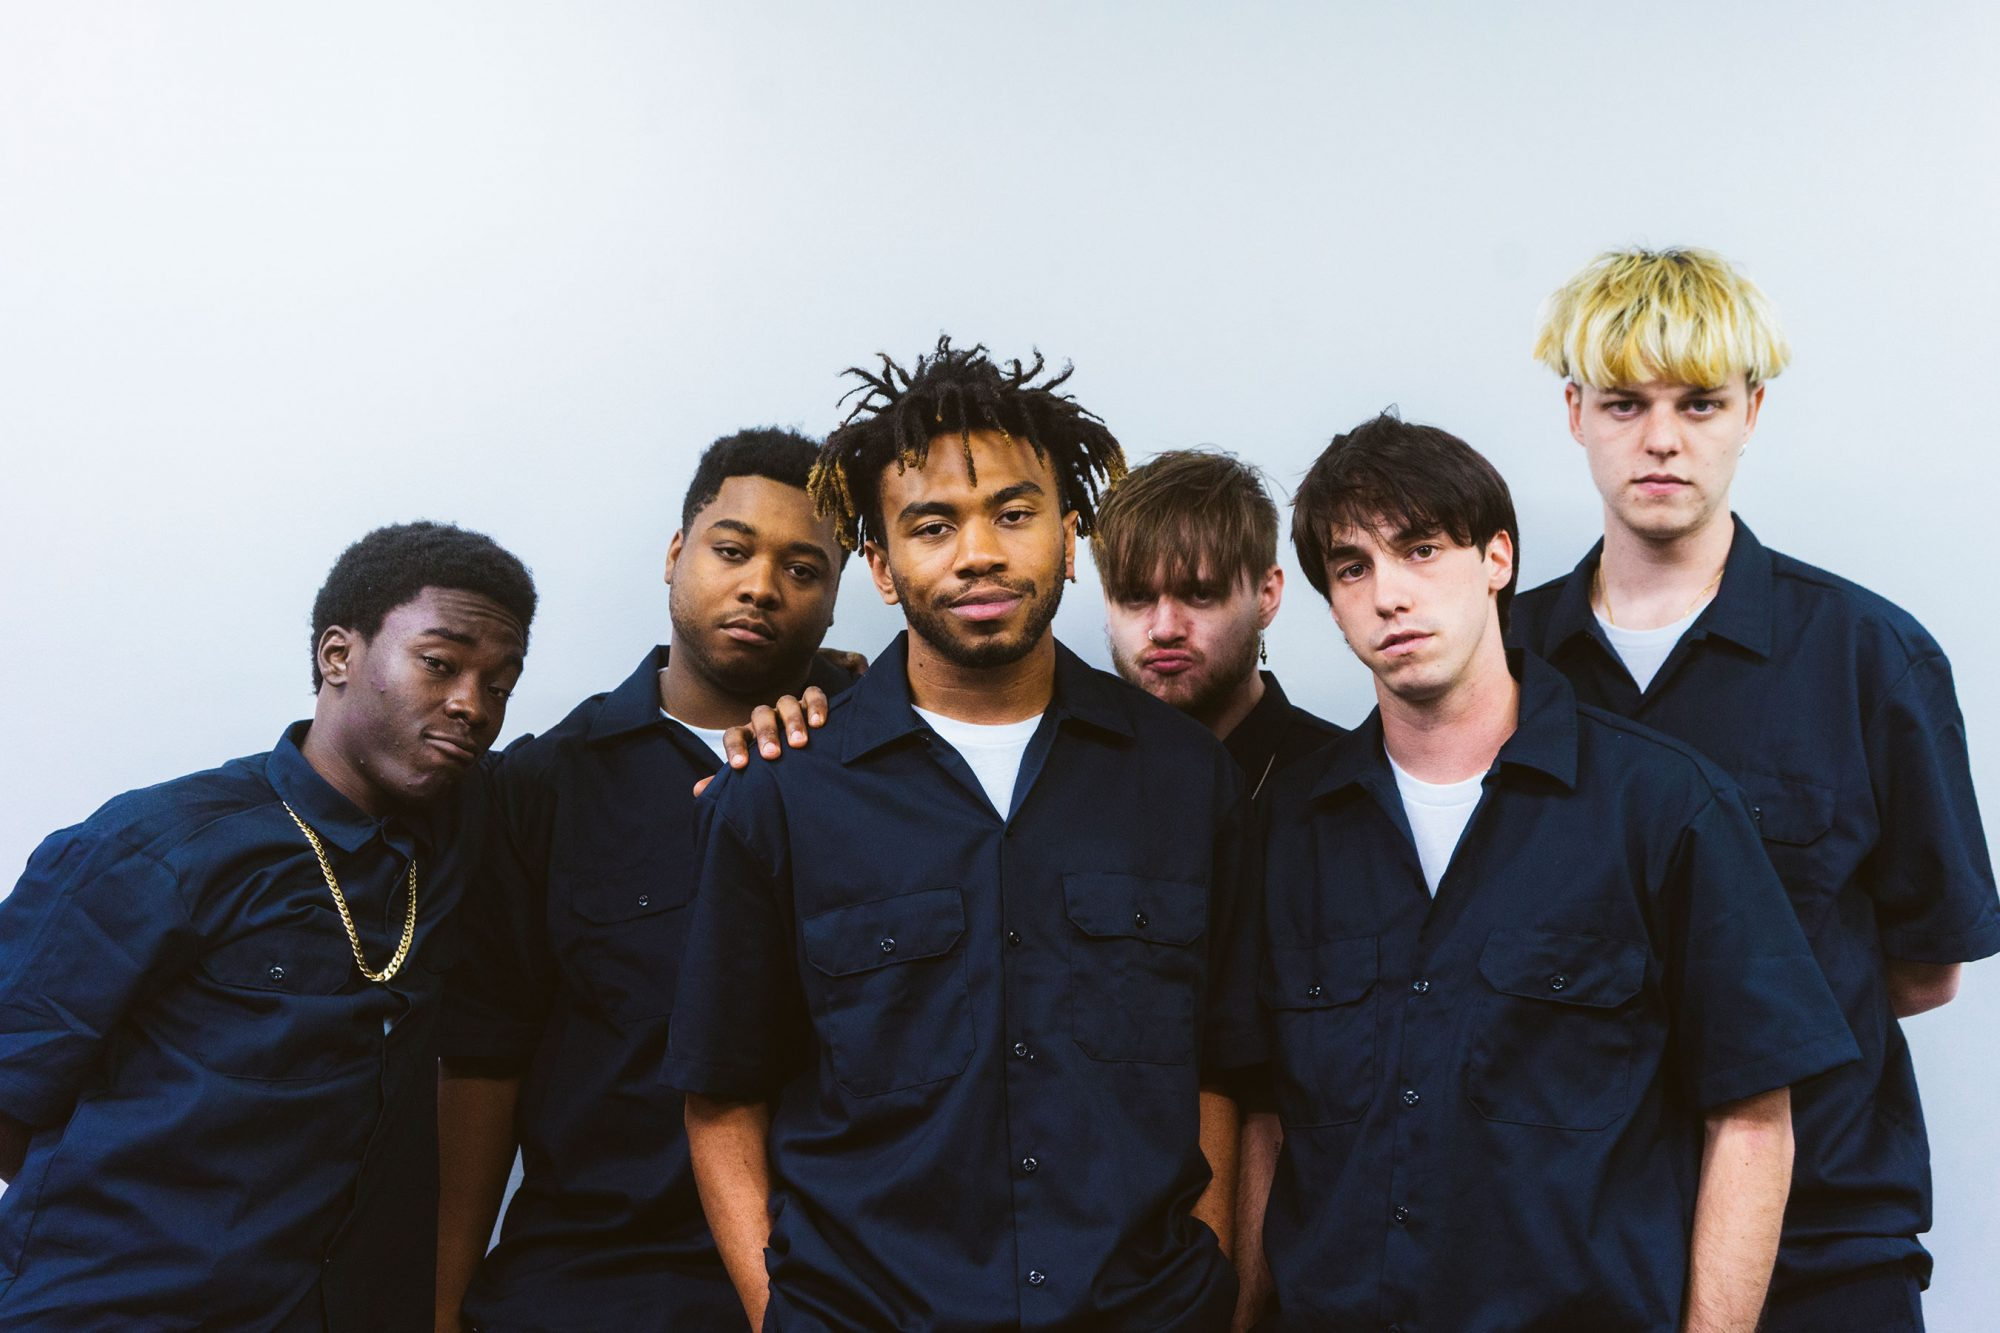
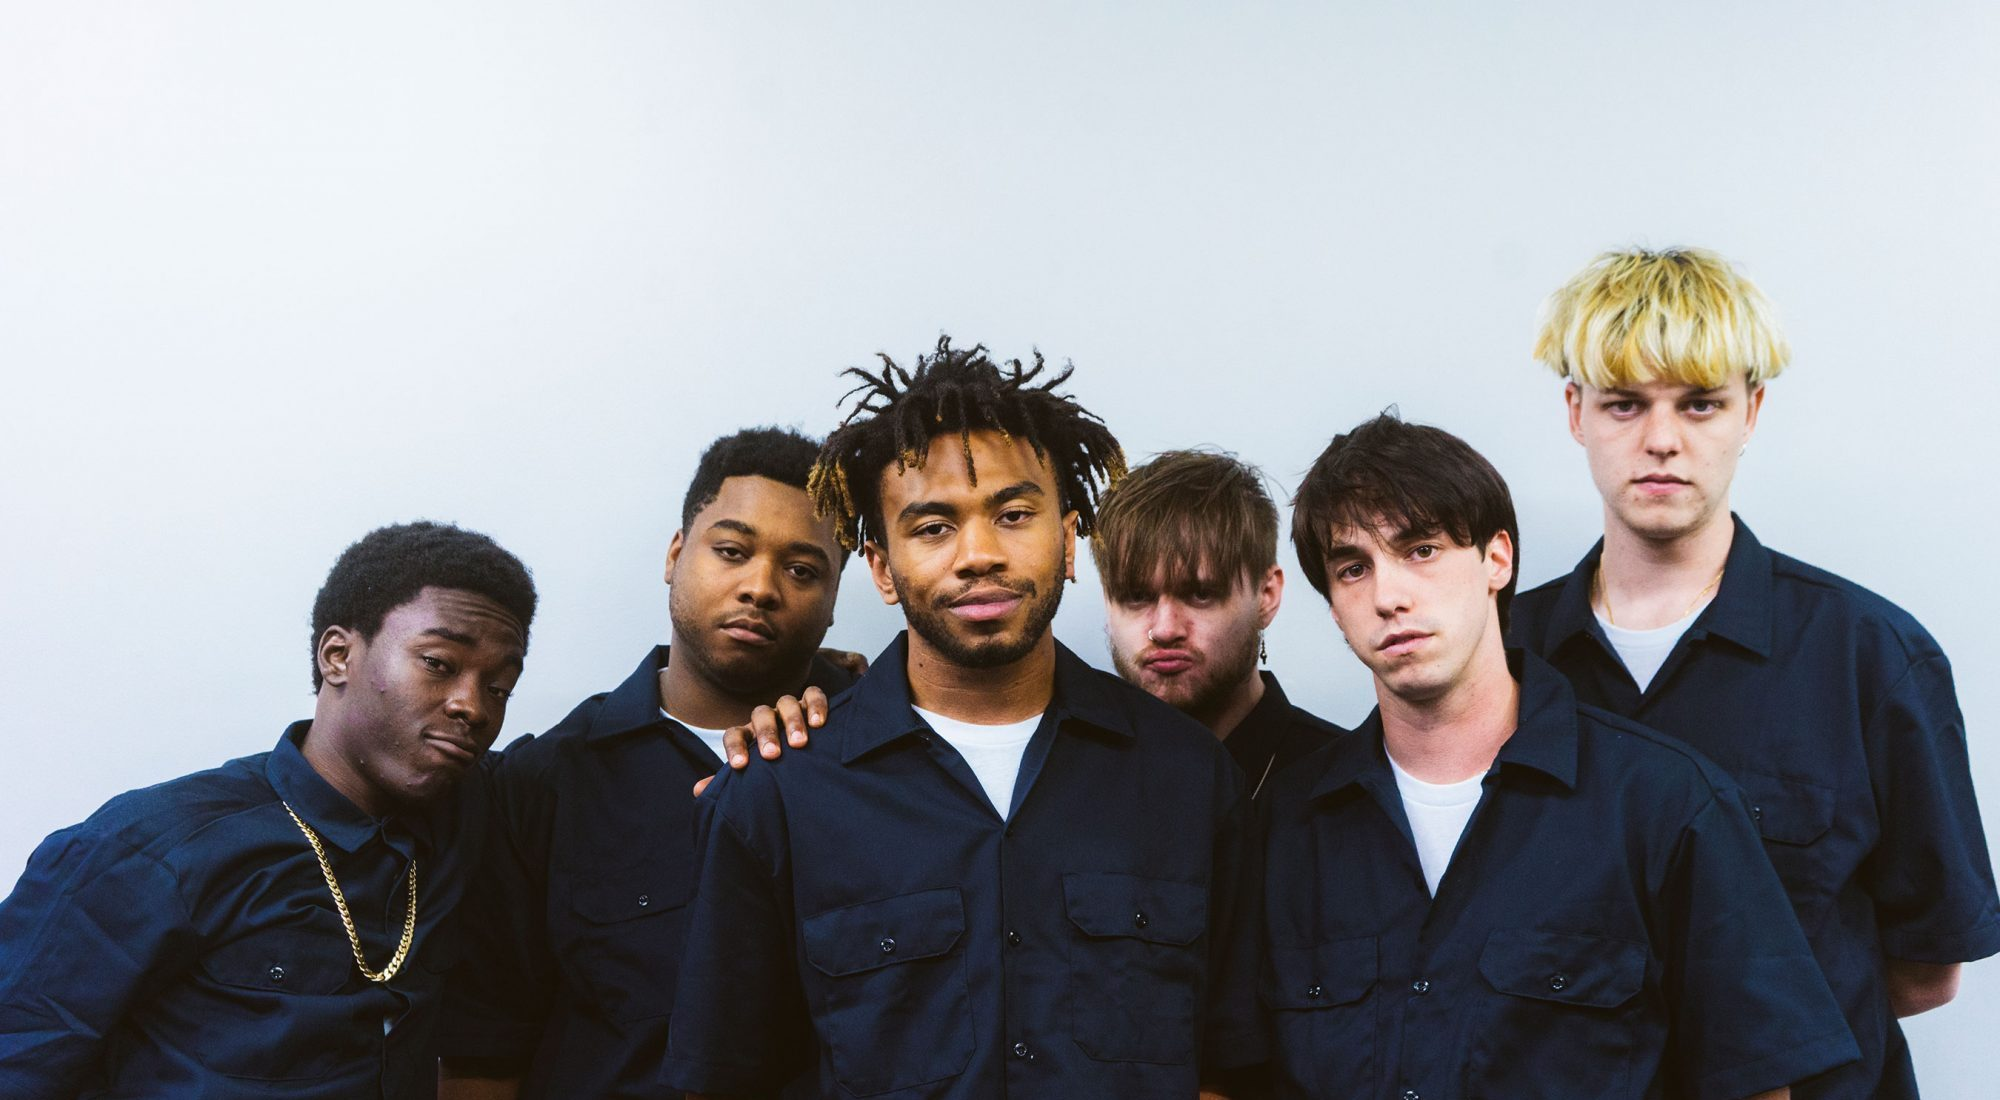
added css to header + mast

diff --git a/landing-page/index.html b/landing-page/index.html
@@ -9,25 +9,27 @@
 <body>
     <header>
         <div class="left">
-            <img src="./imgs/couch.png" alt="brockhampton's iconic couch logo">
+            <img src="./imgs/couch.png" alt="brockhampton's iconic couch logo" class="header">
         </div>
         <div class="right">
             <ul>
-                <li><a href="https://www.youtube.com/watch?v=7M1DPmfUi9g">sugar</li>
+                <li><a href="https://www.youtube.com/watch?v=7M1DPmfUi9g">sugar</a></li>
                 <li><a href="https://www.reddit.com/r/brockhampton/comments/9fo2tf/new_brockhampton_song_lyrics_leaked/">puppy l3ak</a></li>
-                <li><a href="https://www.brckhmptn.com/#tour">upcoming tours</li>
+                <li><a href="https://www.brckhmptn.com/#tour">upcoming tours</a></li>
             </ul>
         </div>
     </header>
     <div class="content">
         <section class="mast">
-            <h1>Brockhampton Backstage</h1>
-            <p>Join the boys backstage™ – the all-new, exclusive platform for getting personalized content of your favorite boyband!!</p>
-            <button>sign tf up</button>
-            <figure>
-                <img src="./imgs/group-pic.jpeg" alt="pic of da boys">
-                <figcaption><a href="https://ew.com/music/brockhampton-indefinite-hiatus/">source: https://ew.com</a></figcaption>
-            </figure>
+            <div class="text-container">
+                <h1>Brockhampton Backstage</h1>
+                <p>Join the boys backstage™ – the all-new, exclusive platform for getting personalized content of your favorite boyband</p>
+                <button>sign tf up</button>
+                <!-- <figure>
+                    <img src="./imgs/group-pic.jpeg" alt="pic of da boys">
+                    <figcaption><a href="https://ew.com/music/brockhampton-indefinite-hiatus/">source: https://ew.com</a></figcaption>
+                </figure> -->
+            </div>
         </section>
         <section class="deets">
             <h2> Perks of Backstage</h2>
@@ -35,28 +37,28 @@
                 <li>
                     <figure>
                         <img src="./imgs/merlyn-hair.jpeg" alt="merlyn w bleached hair">
-                        <figcaption><a href="https://equipboard.com/pros/merlyn-wood">source: equipboard.com</a></figcaption>
+                        <!-- <figcaption><a href="https://equipboard.com/pros/merlyn-wood">source: equipboard.com</a></figcaption> -->
                     </figure>
                     yall decide merlyn's new hair color
                 </li>
                 <li>
                     <figure>
                         <a href="https://twitter.com/kevinabstract"><img src="./imgs/kevin-tweet.png" alt="tweet by kevin abstract"></a>
-                        <figcaption><a href="https://www.reddit.com/r/brockhampton/comments/8sp2qu/kevin_just_tweeted_an_update/">sauce</a></figcaption>
+                        <!-- <figcaption><a href="https://www.reddit.com/r/brockhampton/comments/8sp2qu/kevin_just_tweeted_an_update/">sauce</a></figcaption> -->
                     </figure>
                     get a ping everytime kevin starts shit on twitter
                 </li>
                 <li>
                     <figure>
                         <img src="./imgs/romil.jpeg" alt="romil hemnani with headphones">
-                        <figcaption><a href="https://www.soundonsound.com/techniques/inside-track-brockhampton-weight">source: soundonsound.com</a></figcaption>
+                        <!-- <figcaption><a href="https://www.soundonsound.com/techniques/inside-track-brockhampton-weight">source: soundonsound.com</a></figcaption> -->
                     </figure>
                     romil spits some straight bars (unlike kevin)
                 </li>
                 <li>
                     <figure>
                         <img src="./imgs/puppy.png" alt="puppy album cover with matt champion">
-                        <figcaption><a href="https://brckhmptn.fandom.com/wiki/PUPPY">source: brckhmptn.fandom.com</a></figcaption>
+                        <!-- <figcaption><a href="https://brckhmptn.fandom.com/wiki/PUPPY">source: brckhmptn.fandom.com</a></figcaption> -->
                     </figure>
                     if yall hit a mil, we release puppy
                 </li>
@@ -71,7 +73,7 @@
                         Solid 8.5 out of 10.
                     </p>
                 </blockquote>
-                <figcaption>—Anthony 'melon' Fantano, <cite>Instagram livestream</cite></figcaption>
+                <figcaption>—Anthony 'merlyn' Fantano, <cite>Instagram livestream</cite></figcaption>
             </figure>
             <figure>
                 <blockquote>
@@ -79,7 +81,7 @@
                         It's kevin guys. Kevin's the white boy I kissed in 2004. 
                     </p>
                 </blockquote>
-                <figcaption>- Tyler, the creator, <cite>the early-noon show with Jimothy</cite></figcaption>
+                <figcaption>—Tyler, the creator, <cite>the early-noon show with Jimothy</cite></figcaption>
             </figure>
             <figure>
                 <blockquote>
@@ -87,7 +89,7 @@
                         MERLYN 
                     </p>
                 </blockquote>
-                <figcaption>- Merlyn</figcaption>
+                <figcaption>—Merlyn</figcaption>
             </figure>
         </section>
         <section class="final-button">

diff --git a/landing-page/styles.css b/landing-page/styles.css
@@ -1,14 +1,95 @@
 body {
     display: flex;
     flex-direction: column;
+    margin: 0;
 }
+
+header {
+    display: flex;
+    justify-content: space-between;
+    background-color: hsl(213, 44%, 85%);
+    align-items: center;
+}
+
+img.header {
+    height: 60px;
+    width: auto;
+}
+
+.right ul {
+    display: flex;
+    gap: 24px;
+}
+
 
 .content {
     display: flex;
     flex-direction: column;
 }
 
+.mast {
+    background-image: url('./imgs/group-pic.jpeg');
+    background-repeat: no-repeat;
+    background-size: cover;
+    background-position: center;
+    height: 600px;
+    
+    display: flex;
+    align-items: center;
+    justify-content: center;
+}
+
+.mast .text-container {
+    background-color: hsla(233, 13%, 37%, 0.7);
+    display: flex;
+    flex-direction: column;
+    align-items: center;
+    border-radius: 16px;
+    padding: 12px;
+    max-width: 1100px;
+    text-align: center;
+    /* justify-content: center; */
+}
+
+
+
+header,
+.mast {
+    padding: 0 256px;
+}
+
+
+.mast h1 {
+    font-size: 72px;
+    margin: 8px 0 0 0;
+    color: hsl(47, 100%, 58%);
+}
+
+.mast p {
+    font-size: 30px;
+    color: rgb(231, 231, 231);
+}
+
+.mast button {
+    font-size: 24px;
+    padding: 8px 16px;
+    background-color: rgb(231, 231, 231);
+    border-radius: 4px;
+}
+.mast button:hover {
+    background-color: darkblue;
+    color: lightyellow;
+}
+
+ul {
+    list-style: none;
+    padding: 0px;
+}
+
 img {
     width: 300px;
 }
 
+a {
+    text-decoration: none;
+}
